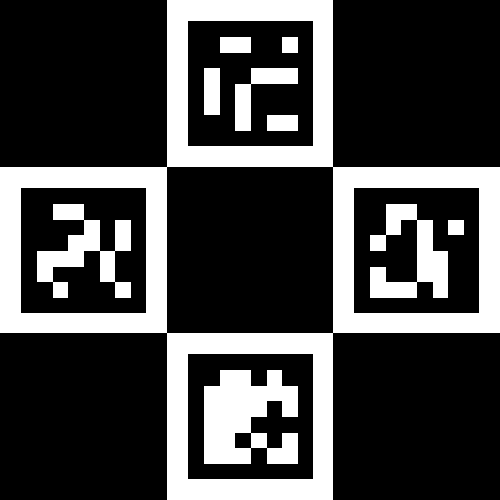
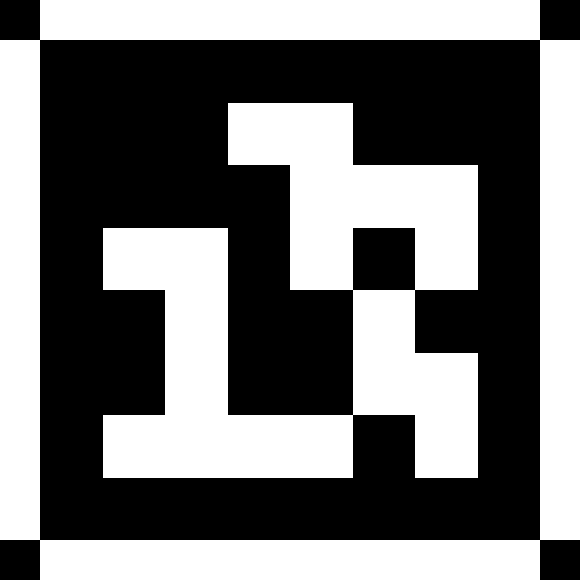
Detect single markers

diff --git a/host/cv_common.py b/host/cv_common.py
@@ -1,6 +1,7 @@
 import cv2
 import cv2.aruco as aruco
 import numpy as np
+import os
 
 # Intrinsic Matrix: 
 camera_matrix = np.array(
@@ -12,48 +13,84 @@ camera_matrix = np.array(
 dist_coeffs = np.array(
 [[ 3.40916628e-01, -2.38650897e+00, -8.85125582e-04, 3.34240054e-03, 4.69525036e+00]])
 
-names = [
-	'origin',
-	'gripper_front',
-	'gripper_back',
-	'gantry_side_A',
-	'gantry_side_B',
-	'gantry_side_C',
-	'anchor0',
-	'anchor1',
-	'anchor2',
-	'anchor3',
-	'bin_laundry',
-	'bin_trash',
-	'bin_toys',
-	'bin_other',
-]
-cranebot_boards = {}
-cranebot_detectors = {}
+# the ids are the index in the list
+marker_names = {
+    'origin',
+    'gripper_front',
+    'gripper_back',
+    'gantry_side_A',
+    'gantry_side_B',
+    'gantry_side_C',
+    'anchor0',
+    'anchor1',
+    'anchor2',
+    'anchor3',
+    'bin_laundry',
+    'bin_trash',
+    'bin_toys',
+    'bin_other',
+}
 
-# Define ChArUco board parameters
-SQUARE_LENGTH = 0.02  # Length of one square in meters
-MARKER_LENGTH = 0.015 # Length of ArUco marker in meters
-ROWS = 3           # Number of rows of squares
-COLS = 3           # Number of columns of squares
-N_MARKERS = 4      # Number of markers per board
+marker_size = 0.09 # Length of ArUco marker in meters
 
+aruco_dict = aruco.getPredefinedDictionary(cv2.aruco.DICT_6X6_50)
+aruco_parameters = aruco.DetectorParameters()
 # Minimum and maximum size that an aruco marker could be as a fraction of the image width
-parameters = aruco.DetectorParameters()
-parameters.minMarkerPerimeterRate = 0.01
-parameters.maxMarkerPerimeterRate = 4.0
+aruco_parameters.minMarkerPerimeterRate = 0.01
+aruco_parameters.maxMarkerPerimeterRate = 4.0
+detector = aruco.ArucoDetector(aruco_dict, aruco_parameters)
 
-dictionary = aruco.getPredefinedDictionary(aruco.DICT_6X6_250)
+class Detection:
+    def __init__(self, name, r, t):
+        self.name = name
+        self.rotation = r
+        self.translation = t
 
-for i,name in enumerate(names):
-	board = aruco.CharucoBoard((ROWS, COLS), SQUARE_LENGTH, MARKER_LENGTH, dictionary, np.arange(i*N_MARKERS, (i+1)*N_MARKERS))
-	detector = aruco.CharucoDetector(board, detectorParams=parameters)
-	cranebot_boards[name] = board
-	cranebot_detectors[name] = detector
+def locate_markers(im):
+    corners, ids, rejectedImgPoints = detector.detectMarkers(frame)
+    if ids is not None:
+        #estimate pose of every marker in the image
+        marker_points = np.array([[-marker_size / 2, marker_size / 2, 0],
+                                  [marker_size / 2, marker_size / 2, 0],
+                                  [marker_size / 2, -marker_size / 2, 0],
+                                  [-marker_size / 2, -marker_size / 2, 0]], dtype=np.float32)
+        rvecs = []
+        tvecs = []
+        results = []
 
-def locate_board(im, name):
-    charuco_corners, charuco_ids, marker_corners, marker_ids = cranebot_detectors[name].detectBoard(im)
-    if (charuco_corners is not None and len(charuco_corners) > 0) and (marker_corners is not None and len(marker_corners) > 0):
-    	return aruco.estimatePoseCharucoBoard(charuco_corners, charuco_ids, cranebot_boards[name], camera_matrix, dist_coeffs, None, None)
-    else:
-    	return False, None, None
+        for i,c in zip(ids, corners):
+            _, r, t = cv2.solvePnP(marker_points, c, mtx, distortion, False, cv2.SOLVEPNP_IPPE_SQUARE)
+            try:
+                name = marker_names[i]
+                results.append(Detection(name, np.array(r), np.array(t)))
+            except IndexError:
+                # saw something that's not part of my robot
+                print(f'Unknown marker spotted with id {i}')
+        return results
+
+def generateMarkerImages():
+    border_px = 40
+    marker_side_px = 500
+    cm = (marker_size/marker_side_px)*(marker_side_px+border_px*2)*100
+    print('boards should be printed with a side length of %0.2f cm' % cm)
+    for i, name in enumerate(marker_names):
+        marker_image = cv2.aruco.generateImageMarker(aruco_dict, i, marker_side_px)
+
+        # white frame with black corner squares
+        total_size = marker_side_px + 2 * border_px
+        framed_image = np.ones((total_size, total_size), dtype=np.uint8) * 255
+
+        # Place the marker image in the center
+        framed_image[border_px:border_px + marker_side_px, border_px:border_px + marker_side_px] = marker_image
+
+        # Draw black squares in the corners
+
+        framed_image[:border_px, :border_px] = 0
+        framed_image[-border_px:, -border_px:] = 0
+        framed_image[:border_px, -border_px:] = 0
+        framed_image[-border_px:, :border_px] = 0
+
+        cv2.imwrite(os.path.join('boards',name+'.png'), framed_image)
+
+if __name__ == '__main__':
+    generateMarkerImages()

diff --git a/host/experiments/estimate_single_aruco.py b/host/experiments/estimate_single_aruco.py
@@ -1,0 +1,75 @@
+import cv2
+import cv2.aruco as aruco
+import numpy as np
+import glob
+
+MARKER_LENGTH = 0.015 # Length of ArUco marker in meters
+
+# Intrinsic Matrix: 
+camera_matrix = np.array(
+[[1.55802968e+03, 0.00000000e+00, 8.58167917e+02],
+ [0.00000000e+00, 1.56026885e+03, 6.28095370e+02],
+ [0.00000000e+00, 0.00000000e+00, 1.00000000e+00]])
+ 
+# Distortion Coefficients: 
+dist_coeffs = np.array(
+[[ 3.40916628e-01, -2.38650897e+00, -8.85125582e-04, 3.34240054e-03, 4.69525036e+00]])
+
+
+aruco_dict = cv2.aruco.getPredefinedDictionary(cv2.aruco.DICT_6X6_250)
+parameters = cv2.aruco.DetectorParameters()
+parameters.minMarkerPerimeterRate = 0.01
+parameters.maxMarkerPerimeterRate = 4.0
+
+# Load images
+image_files = glob.glob("images/messy3.jpg")  # Assumes images are in an "images" folder
+all_corners = []
+all_ids = []
+
+def estimatePoseSingleMarkers(corners, marker_size, mtx, distortion):
+    '''
+    This will estimate the rvec and tvec for each of the marker corners detected by:
+       corners, ids, rejectedImgPoints = detector.detectMarkers(image)
+    corners - is an array of detected corners for each detected marker in the image
+    marker_size - is the size of the detected markers
+    mtx - is the camera matrix
+    distortion - is the camera distortion matrix
+    RETURN list of rvecs, tvecs, and trash (so that it corresponds to the old estimatePoseSingleMarkers())
+    '''
+    marker_points = np.array([[-marker_size / 2, marker_size / 2, 0],
+                              [marker_size / 2, marker_size / 2, 0],
+                              [marker_size / 2, -marker_size / 2, 0],
+                              [-marker_size / 2, -marker_size / 2, 0]], dtype=np.float32)
+    trash = []
+    rvecs = []
+    tvecs = []
+
+    for c in corners:
+        nada, R, t = cv2.solvePnP(marker_points, c, mtx, distortion, False, cv2.SOLVEPNP_IPPE_SQUARE)
+        rvecs.append(R)
+        tvecs.append(t)
+        trash.append(nada)
+    return np.array(rvecs), np.array(tvecs), trash
+
+for image_file in image_files:
+    frame = cv2.imread(image_file)
+
+    corners, ids, rejectedImgPoints = cv2.aruco.detectMarkers(frame, aruco_dict, parameters=parameters)
+    print(corners)
+
+    if ids is not None:
+        #estimate pose of every marker in the image
+        # rvecs, tvecs, _ = cv2.aruco.estimatePoseSingleMarkers(corners, MARKER_LENGTH, camera_matrix, dist_coeffs)
+        rvecs, tvecs, _ = estimatePoseSingleMarkers(corners, MARKER_LENGTH, camera_matrix, dist_coeffs)
+
+        print(f"Pose for {image_file}:")
+        print("Rotation Vector (rvec):\n", rvecs)
+        print("Translation Vector (tvec):\n", tvecs)
+
+        for rvec, tvec in zip(rvecs, tvecs):
+            cv2.drawFrameAxes(frame, camera_matrix, dist_coeffs, rvec, tvec, MARKER_LENGTH)
+
+    cv2.imwrite("images/out.jpg", frame)
+
+# cv2.waitKey(0)
+# cv2.destroyAllWindows()

diff --git a/host/observer.py b/host/observer.py
@@ -5,7 +5,7 @@ import threading
 import time
 import socket
 from zeroconf import ServiceBrowser, ServiceListener, Zeroconf
-from cv_common import locate_board
+from cv_common import locate_markers
 import cv2
 import numpy as np
 
@@ -34,11 +34,11 @@ class PartHandler:
 
         frame = cv2.imdecode(np.frombuffer(buf, dtype=np.uint8), cv2.IMREAD_COLOR)
         if frame is not None:
-            retval, rvec, tvec = locate_board(frame, 'origin')
-            print(f"Found board: {retval}")
-            print(f"Timestamp: {timestamp}")
-            print(f"Rotation Vector: {rvec}")
-            print(f"Translation Vector: {tvec}")
+            for detection in locate_markers(frame):
+                print(f"Found board: {detection.name}")
+                print(f"Timestamp: {timestamp}")
+                print(f"Rotation Vector: {detection.rvec}")
+                print(f"Translation Vector: {detection.tvec}")
             sys.stdout.flush()
 
                 # using the board id, figure out which object it is
